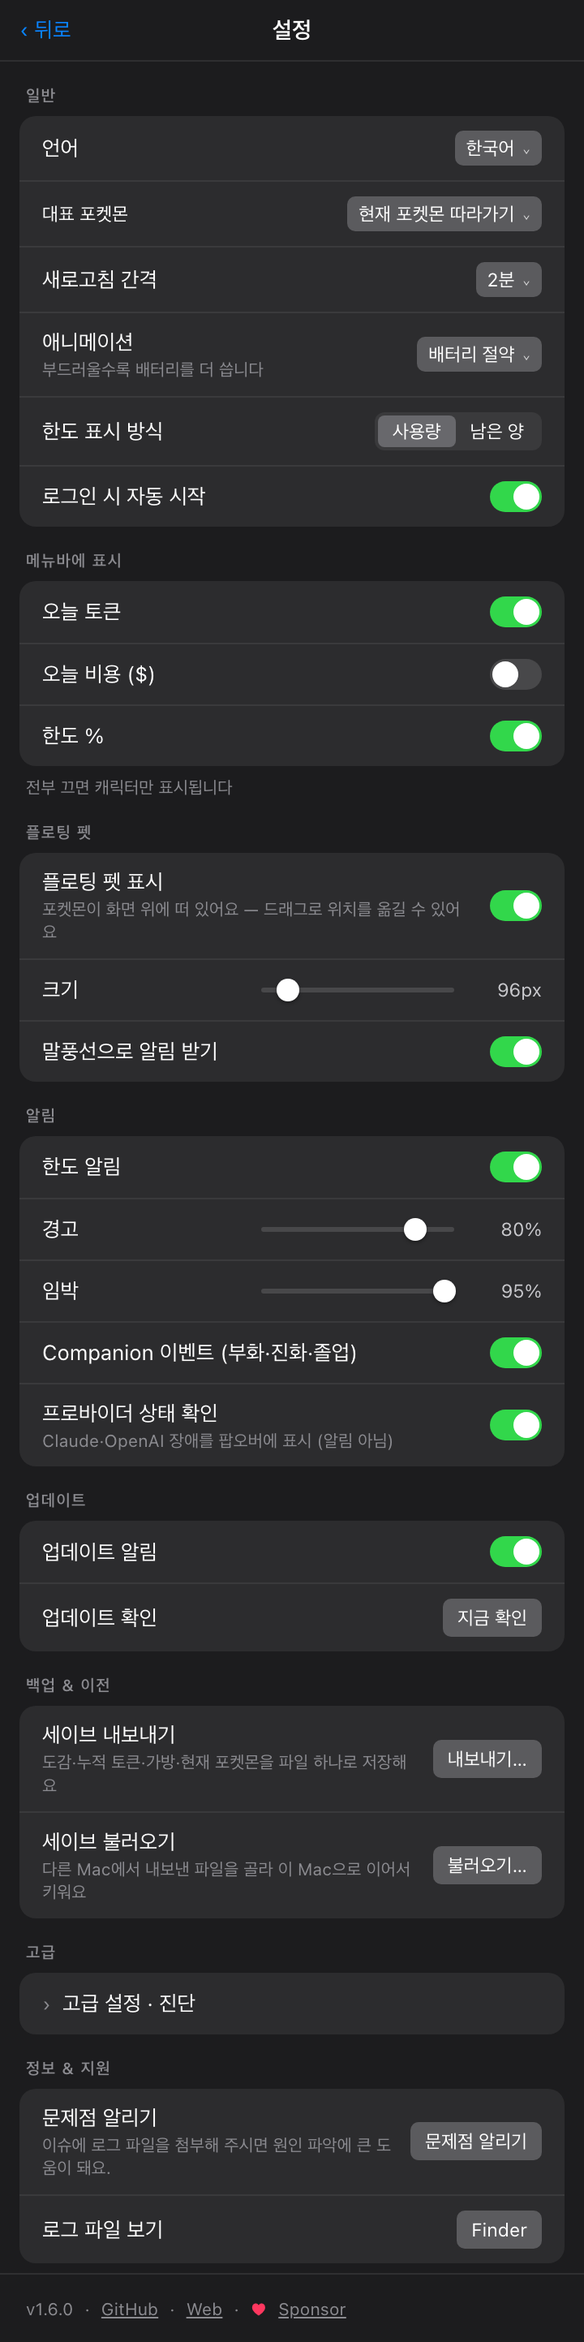
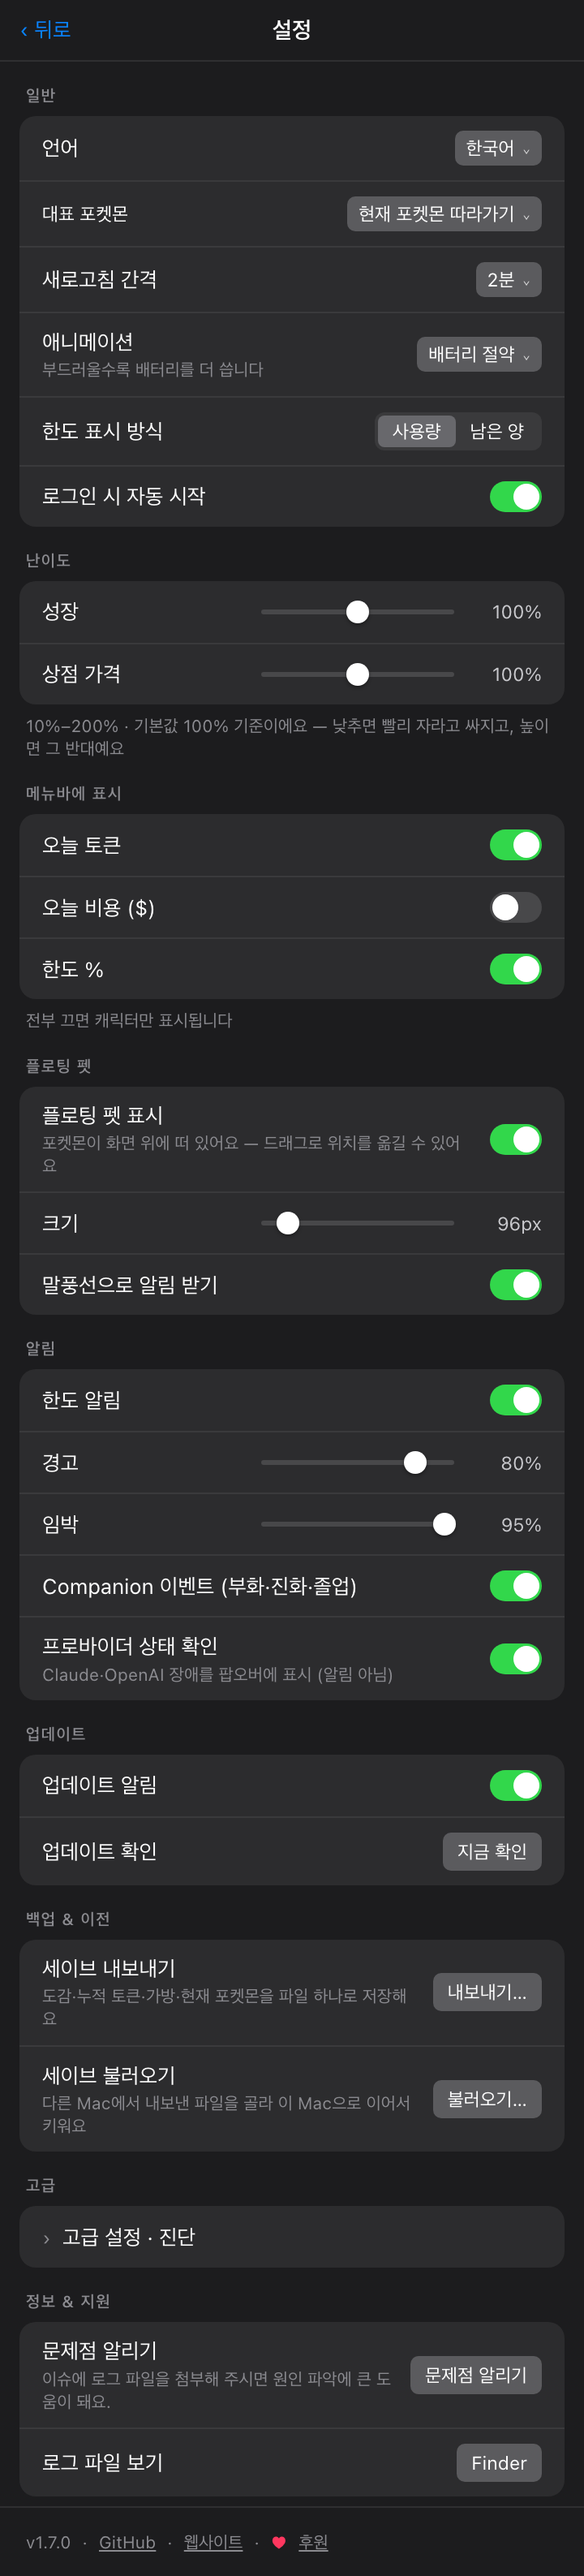
docs: redraw the settings shots for 1.7.0 with the Difficulty section
The generator never drew Difficulty, so the screenshots have been missing a
whole settings section; 2.5.4 also localized the footer links and narrowed the
sliders to 10%-200%. Adds the section between General and Menu bar (the app's
order), localizes the Website/Sponsor labels, and bumps the footer version.

diff --git a/scripts/gen-settings-screenshots.py b/scripts/gen-settings-screenshots.py
@@ -23,7 +23,7 @@ REPO = os.path.dirname(os.path.dirname(os.path.abspath(__file__)))
 OUT = os.path.join(REPO, "assets")
 TMP = os.path.join(REPO, "build")
 CHROME = "/Applications/Google Chrome.app/Contents/MacOS/Google Chrome"
-VERSION = "1.6.0"
+VERSION = "1.7.0"
 
 # ko, en, ja — Localization.swift 의 t(ko, en, ja, es) 순서에서 es 만 뺐다.
 S = {
@@ -44,6 +44,14 @@ S = {
  "limitUsed":     ("사용량", "Used", "使用量"),
  "limitRemain":   ("남은 양", "Remaining", "残量"),
  "launch":        ("로그인 시 자동 시작", "Launch at login", "ログイン時に自動起動"),
+ "difficulty":    ("난이도", "Difficulty", "難易度"),
+ "diffGrowth":    ("성장", "Growth", "成長"),
+ "diffShop":      ("상점 가격", "Shop prices", "ショップ価格"),
+ "diffHint":      ("10%–200% · 기본값 100% 기준이에요 — 낮추면 빨리 자라고 싸지고, 높이면 그 반대예요",
+                   "10%–200% · Percentages of the default balance — lower grows faster and costs less, higher does the opposite",
+                   "10%–200% · 標準バランスに対する割合です — 下げると早く育ち安くなり、上げるとその逆になります"),
+ "web":           ("웹사이트", "Website", "ウェブサイト"),
+ "sponsorLink":   ("후원", "Sponsor", "支援"),
  "menuBar":       ("메뉴바에 표시", "Show in menu bar", "メニューバーに表示"),
  "todayTokens":   ("오늘 토큰", "Today's tokens", "本日のトークン"),
  "todayCost":     ("오늘 비용 ($)", "Today's cost ($)", "本日のコスト ($)"),
@@ -249,6 +257,14 @@ def html(lang, advanced=False):
                 f'<div class="seg"><span class="on">{s("limitUsed")}</span><span>{s("limitRemain")}</span></div>'),
             row(s("launch"), tog(True)),
         ),
+        sec(s("difficulty")),
+        card(
+            row(f'<span style="display:inline-block;width:84px">{s("diffGrowth")}</span>',
+                slider(50) + '<div class="val">100%</div>'),
+            row(f'<span style="display:inline-block;width:84px">{s("diffShop")}</span>',
+                slider(50) + '<div class="val">100%</div>'),
+        ),
+        f'<div class="note">{s("diffHint")}</div>',
         sec(s("menuBar")),
         card(
             row(s("todayTokens"), tog(True)),
@@ -288,7 +304,7 @@ def html(lang, advanced=False):
             row(s("showLog"), f'<div class="btn">{s("finder")}</div>'),
         ),
         f'<div class="ftr"><span>v{VERSION}</span><span>·</span><a>GitHub</a><span>·</span>'
-        f'<a>Web</a><span>·</span><span class="hrt">♥</span><a>Sponsor</a></div>',
+        f'<a>{s("web")}</a><span>·</span><span class="hrt">♥</span><a>{s("sponsorLink")}</a></div>',
     ]
     return ("<!doctype html><html lang=%s><head><meta charset=utf-8><style>%s</style></head>"
             "<body>%s<script>document.title=document.body.getBoundingClientRect().height"
